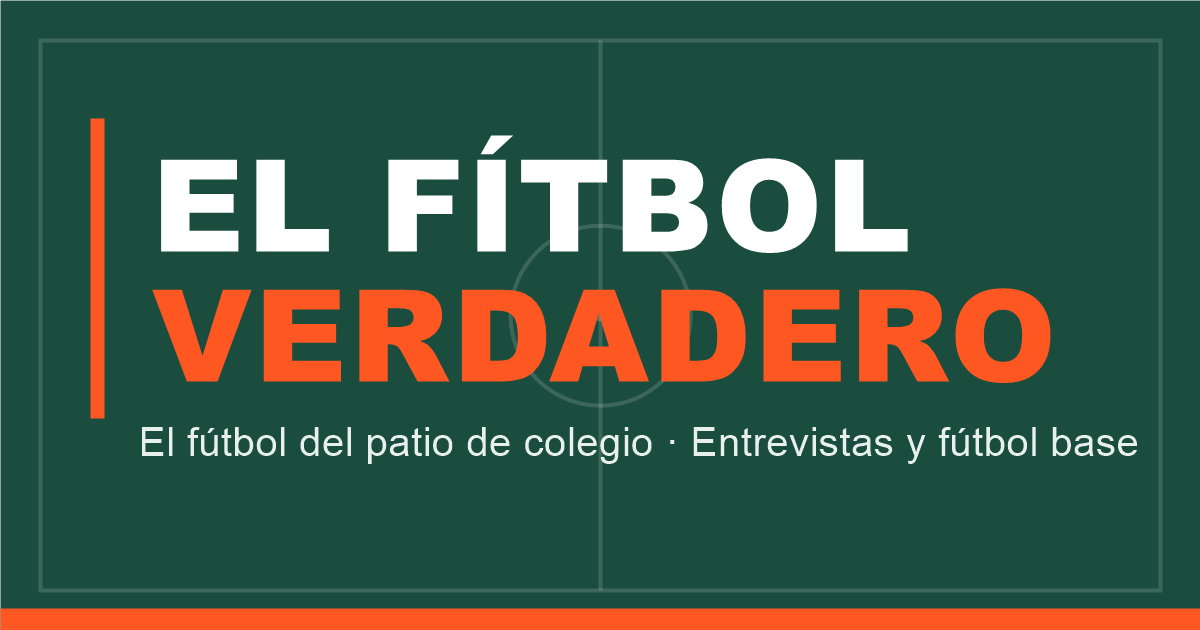
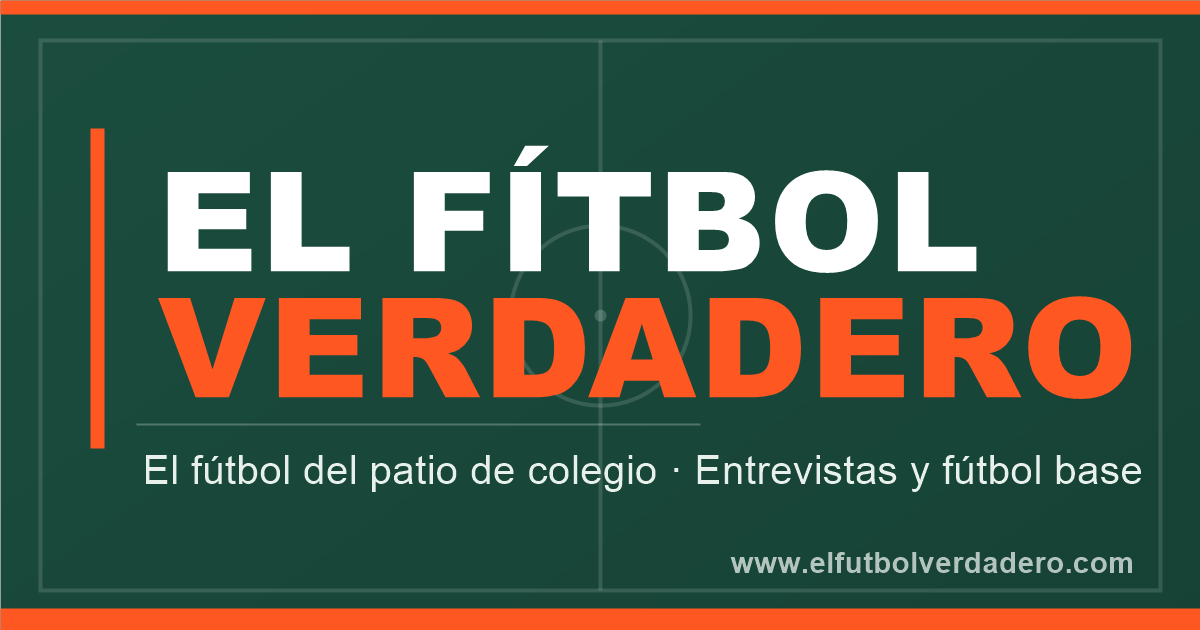
feat: og.png renovada con script reproducible y README del proyecto con .env.example

diff --git a/README.md b/README.md
@@ -1,43 +1,72 @@
-# Astro Starter Kit: Minimal
+# El Fútbol Verdadero
 
-```sh
-npm create astro@latest -- --template minimal
-```
+Web de [elfutbolverdadero.com](https://www.elfutbolverdadero.com): entrevistas, artículos y opinión sobre fútbol base. Entrenar, pensar, compartir.
 
-> 🧑🚀 **Seasoned astronaut?** Delete this file. Have fun!
+## Stack
 
-## 🚀 Project Structure
+- **[Astro 7](https://docs.astro.build)** (SSG, output estático) + **TypeScript strict**
+- **[Sanity.io](https://www.sanity.io)** como headless CMS (contenido e imágenes)
+- **[Tailwind CSS 4](https://tailwindcss.com)** vía plugin Vite
+- **[Vercel](https://vercel.com)** para hosting/deploys · **GitHub Actions** para CI
 
-Inside of your Astro project, you'll see the following folders and files:
+## Comandos
+
+| Comando                | Acción                                             |
+| :--------------------- | :------------------------------------------------- |
+| `npm run dev`          | Servidor de desarrollo en `localhost:4321`         |
+| `npm run build`        | Build de producción a `./dist/`                    |
+| `npm run preview`      | Sirve el build localmente para previsualizar       |
+| `npm run lint`         | ESLint (incluye reglas jsx-a11y para `.astro`)     |
+| `npm run format`       | Prettier sobre todo el repo                        |
+| `npm run format:check` | Comprueba el formato sin modificar                 |
+| `npx astro check`      | Chequeo de tipos de Astro                          |
+| `npm run studio`       | Sanity Studio en `localhost:3333`                  |
+| `npm run import:wp`    | Import de contenido desde la API REST de WordPress |
+
+## Estructura
 
 ```text
 /
-├── public/
-├── src/
-│   └── pages/
-│       └── index.astro
-└── package.json
+├── public/            # Estáticos (favicon, fonts, og.png)
+├── sanity/            # Schemas del CMS (publicacion, autor, categoria, etiqueta, embed, webAmiga)
+├── scripts/           # Utilidades (import WP, generación de og.png)
+└── src/
+    ├── components/    # Componentes Astro (cards, navegación, Portable Text…)
+    ├── config/        # Config (enlaces sociales)
+    ├── layouts/       # Base.astro: SEO, OG, JSON-LD, skip link
+    ├── lib/           # Queries GROQ y helpers (sanity.ts, images.ts, texto.ts…)
+    ├── pages/         # Rutas estáticas
+    └── styles/        # Tokens de diseño (global.css)
 ```
 
-Astro looks for `.astro` or `.md` files in the `src/pages/` directory. Each page is exposed as a route based on its file name.
+### Rutas principales
 
-There's nothing special about `src/components/`, but that's where we like to put any Astro/React/Vue/Svelte/Preact components.
+- `/` · `/entrevistas/` (paginada) · `/categoria/[slug]/` · `/etiqueta/[slug]/` (paginadas)
+- `/buscar/` (índice de búsqueda dividido: `busqueda.json` + `busqueda-cuerpo.json`)
+- `/rss.xml` · `/politica-de-privacidad/` · `/colaboraciones/`
 
-Any static assets, like images, can be placed in the `public/` directory.
+## Variables de entorno
 
-## 🧞 Commands
+Copia `.env.example` a `.env` y rellena los valores. En Sanity:
 
-All commands are run from the root of the project, from a terminal:
+- `SANITY_PROJECT_ID` / `SANITY_DATASET` — cliente de lectura de Astro
+- `SANITY_TOKEN` — solo para escritura (import); nunca se publica
+- `SANITY_STUDIO_PROJECT_ID` / `SANITY_STUDIO_DATASET` — Studio (corre en navegador)
+- `DEV_ALLOWED_HOSTS` — hosts extra permitidos en `astro dev`
 
-| Command                   | Action                                           |
-| :------------------------ | :----------------------------------------------- |
-| `npm install`             | Installs dependencies                            |
-| `npm run dev`             | Starts local dev server at `localhost:4321`      |
-| `npm run build`           | Build your production site to `./dist/`          |
-| `npm run preview`         | Preview your build locally, before deploying     |
-| `npm run astro ...`       | Run CLI commands like `astro add`, `astro check` |
-| `npm run astro -- --help` | Get help using the Astro CLI                     |
+> El dataset de desarrollo local suele ser `staging`; producción usa `production`
+> (configurado en Vercel). El fallback del build es `production` por seguridad.
 
-## 👀 Want to learn more?
+## Contenido y despliegue
 
-Feel free to check [our documentation](https://docs.astro.build) or jump into our [Discord server](https://astro.build/chat).
+1. Se publica en el Sanity Studio (dataset de trabajo).
+2. El sitio es estático: cada publicación requiere un build (deploy en Vercel;
+   webhook pendiente de configurar para automatizarlo).
+3. CI (`.github/workflows/ci.yml`): en cada push/PR ejecuta `lint`, `format:check`,
+   `astro check` y `build`.
+
+## Migración desde WordPress
+
+`scripts/import-wp.mjs` importa los posts legacy (HTML → Portable Text, imágenes
+a Sanity, meta Yoast, slugs 1:1) con checkpoint en `.import/`. Ver
+`MIGRATION-TRACKING.md` para el estado detallado de la migración.
